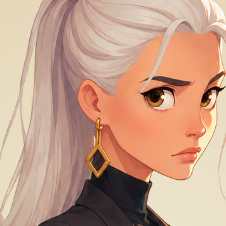
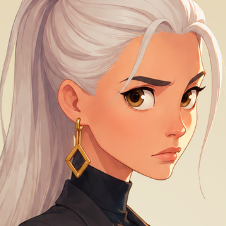
update game interface

diff --git a/script.js b/script.js
@@ -82,7 +82,89 @@ residentChoices.forEach((card) => {
     playerAvatarImg.src = avatarPath(chosenResident);
     drawOpponentResident();
 
+    drawBosses();
+    renderOpponentHiddenTactics();
+
     residentScreen.classList.remove("active");
     boardScreen.classList.add("active");
   });
 });
+
+const opponentBoss1 = document.getElementById("opponentBoss1");
+const opponentBoss2 = document.getElementById("opponentBoss2");
+const playerBoss1 = document.getElementById("playerBoss1");
+const playerBoss2 = document.getElementById("playerBoss2");
+
+const opponentHandCards = document.querySelectorAll(".opponent-hand .card");
+
+const TOTAL_BOSSES = 36;
+const TOTAL_EVENTOS = 38;
+const TOTAL_ITENS = 30;
+const TOTAL_LOCAIS = 39;
+
+function bossPath(id) {
+  return `assets/cartas/chefes/chefe-${padNumber(id)}.png`;
+}
+
+function tacticPath(type, id) {
+  return `assets/cartas/tatica/${type}/${type}-${padNumber(id)}.png`;
+}
+
+function tacticBackPath(type) {
+  return `assets/cartas/back/back-${type}.png`;
+}
+
+function drawBosses() {
+  const bosses = shuffle(
+    Array.from({ length: TOTAL_BOSSES }, (_, index) => index + 1)
+  );
+
+  playerBoss1.src = bossPath(bosses[0]);
+  playerBoss2.src = bossPath(bosses[1]);
+
+  opponentBoss1.src = bossPath(bosses[2]);
+  opponentBoss2.src = bossPath(bosses[3]);
+}
+
+function drawRandomTactic() {
+  const deck = [
+    ...Array.from({ length: TOTAL_EVENTOS }, (_, index) => ({
+      type: "evento",
+      id: index + 1,
+    })),
+    ...Array.from({ length: TOTAL_ITENS }, (_, index) => ({
+      type: "item",
+      id: index + 1,
+    })),
+    ...Array.from({ length: TOTAL_LOCAIS }, (_, index) => ({
+      type: "local",
+      id: index + 1,
+    })),
+  ];
+
+  return shuffle(deck)[0];
+}
+
+function renderOpponentHiddenTactics() {
+  opponentHandCards.forEach((card, index) => {
+    card.innerHTML = "";
+
+    if (index >= 3) {
+      card.style.visibility = "hidden";
+      return;
+    }
+
+    const tactic = drawRandomTactic();
+
+    const face = document.createElement("img");
+    face.className = "card-face";
+    face.src = tacticPath(tactic.type, tactic.id);
+
+    const back = document.createElement("img");
+    back.className = "card-back";
+    back.src = tacticBackPath(tactic.type);
+
+    card.appendChild(face);
+    card.appendChild(back);
+  });
+}

diff --git a/style.css b/style.css
@@ -366,3 +366,61 @@ body {
 .ally-card {
   visibility: hidden;
 }
+
+/* CHEFES VIRADOS PARA CIMA */
+
+.opponent-bosses,
+.player-bosses {
+  position: absolute;
+  left: 50%;
+  width: 19%;
+  height: 18%;
+  transform: translateX(-50%);
+  display: flex;
+  gap: 10%;
+  z-index: 3;
+}
+
+.opponent-bosses {
+  top: 80%;
+}
+
+.player-bosses {
+  bottom: 72%;
+}
+
+.boss-card {
+  width: 48%;
+  aspect-ratio: 2 / 3;
+  object-fit: cover;
+  border: 1.5px solid #777;
+  background: white;
+}
+
+/* CARTA TÁTICA COM FACE + VERSO SOBREPOSTO */
+
+.card {
+  overflow: hidden;
+}
+
+.card img {
+  position: absolute;
+  inset: 0;
+  width: 100%;
+  height: 100%;
+  object-fit: cover;
+}
+
+.card .card-face {
+  z-index: 1;
+}
+
+.card .card-back {
+  z-index: 2;
+}
+
+/* MÃO DO JOGADOR OCULTA POR ENQUANTO */
+
+.player-hand {
+  visibility: hidden;
+}

diff --git a/index.html b/index.html
@@ -47,6 +47,11 @@
         <div class="card tilted t6"></div>
       </div>
 
+      <div class="opponent-bosses">
+        <img class="boss-card" id="opponentBoss1" />
+        <img class="boss-card" id="opponentBoss2" />
+      </div>
+
       <div class="ally-card opponent-ally"></div>
     </section>
 
@@ -63,6 +68,11 @@
         <div class="card fan f4"></div>
         <div class="card fan f5"></div>
         <div class="card fan f6"></div>
+      </div>
+
+      <div class="player-bosses">
+        <img class="boss-card" id="playerBoss1" />
+        <img class="boss-card" id="playerBoss2" />
       </div>
 
       <div class="ally-card player-ally"></div>